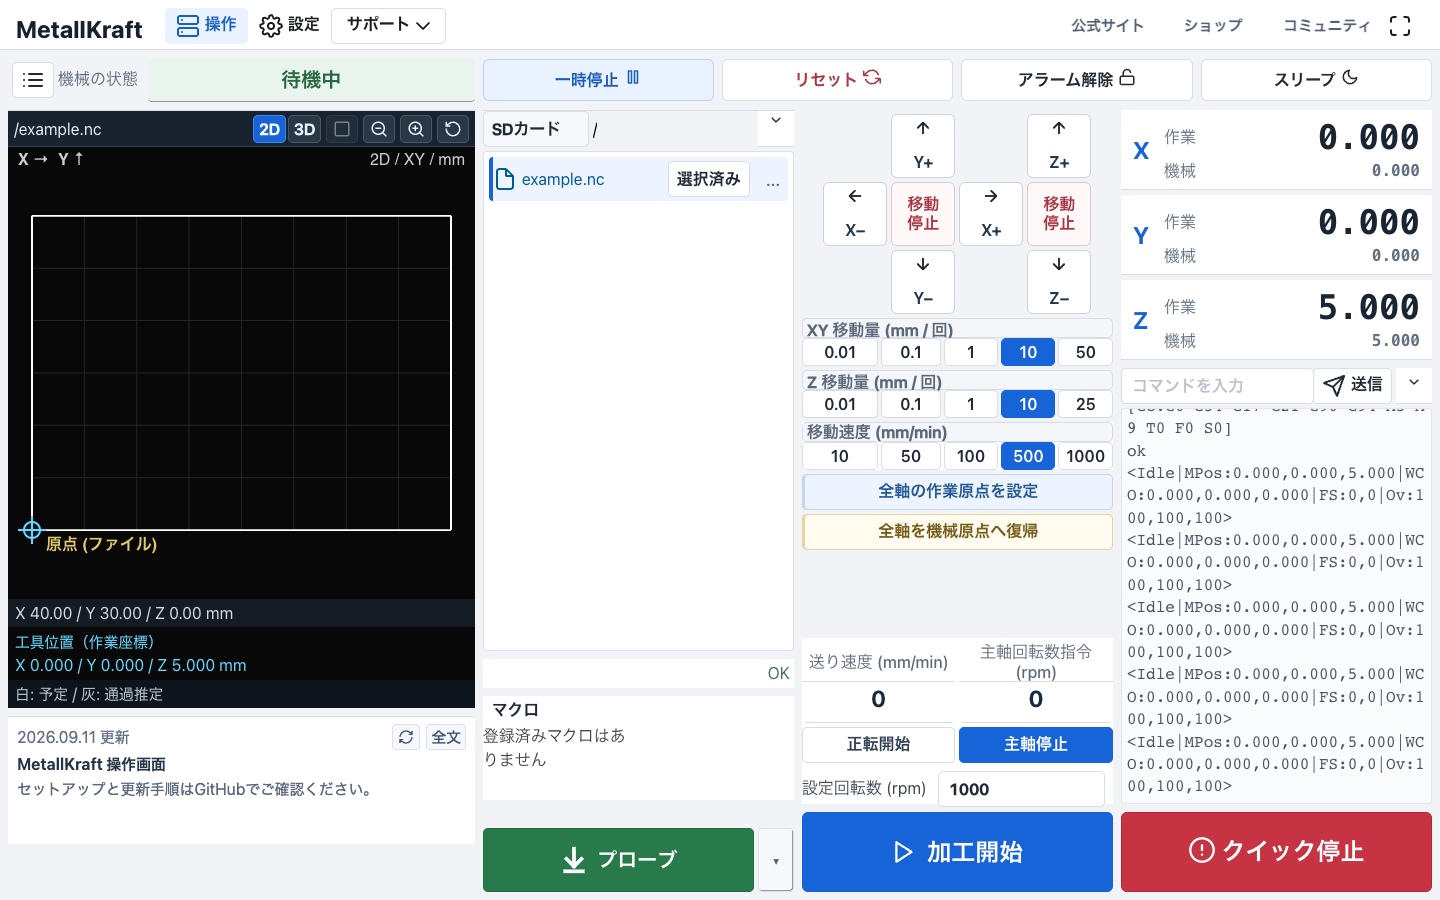
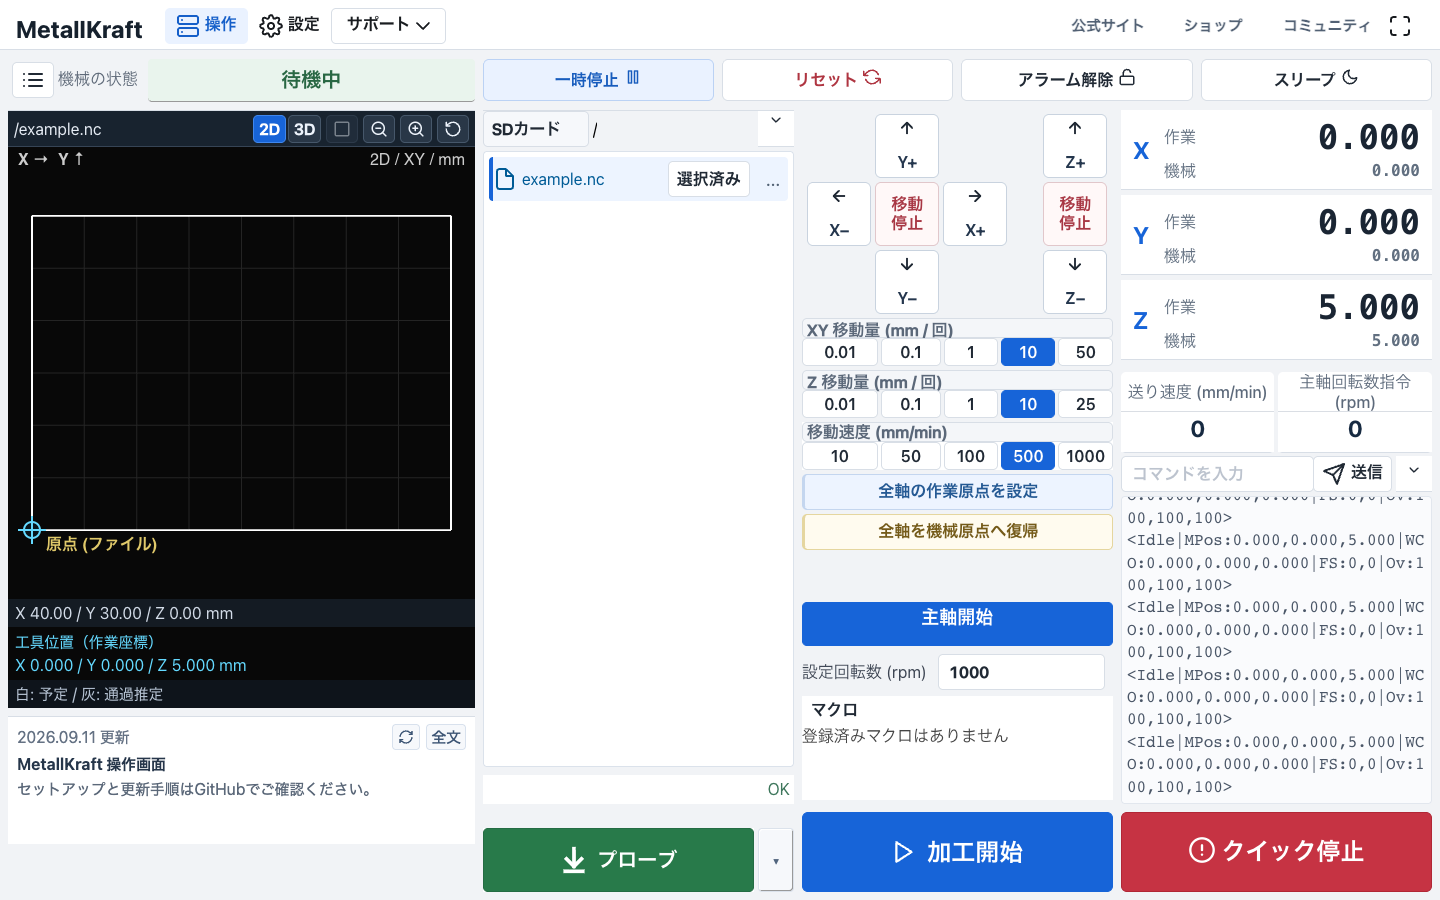
Refine spindle controls, jog spacing and macro layout

diff --git a/standard/operator-layout.css b/standard/operator-layout.css
@@ -1,0 +1,72 @@
+/* Show the appropriate native control; no local toggle state or new command handler. */
+#SpindlePanel fieldset:has([data-tooltip="主軸を正転"]) .states-buttons-container {
+  grid-template-columns: minmax(0, 1fr);
+}
+#dashboard #SpindlePanel button[data-tooltip="主軸を正転"] { display: none; }
+#dashboard #SpindlePanel fieldset:has([data-tooltip="主軸を停止"].btn-primary) button[data-tooltip="主軸を正転"] { display: flex; }
+#dashboard #SpindlePanel fieldset:has([data-tooltip="主軸を停止"].btn-primary) button[data-tooltip="主軸を停止"] { display: none; }
+#dashboard #SpindlePanel button:is([data-tooltip="主軸を正転"], [data-tooltip="主軸を停止"]) {
+  width: 100%; height: 44px; min-height: 44px; justify-content: center;
+  background: var(--mk-blue) !important; border-color: var(--mk-blue) !important; color: #fff !important;
+}
+#dashboard #SpindlePanel button:is([data-tooltip="主軸を正転"], [data-tooltip="主軸を停止"]) label { font-size: 18px; font-weight: 650; }
+@keyframes mk-spindle-running { 0%,100% { filter: brightness(1); } 50% { filter: brightness(.65); } }
+#SpindlePanel fieldset:has(:is([data-tooltip="主軸を正転"], [data-tooltip="主軸を逆転"]).btn-primary) button[data-tooltip="主軸を停止"] {
+  animation: mk-spindle-running 1.4s ease-in-out infinite;
+}
+#dashboard #SpindlePanel fieldset:disabled button:is([data-tooltip="主軸を正転"], [data-tooltip="主軸を停止"]) {
+  animation: none; filter: none; background: #e2e5e9 !important; color: #89919a !important; border-color: #c7cdd4 !important;
+}
+@media (prefers-reduced-motion: reduce) {
+  #SpindlePanel fieldset:has(:is([data-tooltip="主軸を正転"], [data-tooltip="主軸を逆転"]).btn-primary) button[data-tooltip="主軸を停止"] { animation: none; }
+}
+
+/* XY remains a square cross. Only the group gap grows by half a jog button. */
+#dashboard #jogPanel { --jog-cell: min(80px, calc((100cqw - 12px) / 4.5)); }
+#dashboard #jogPanel [id="btn-X"] { transform: translateX(calc(-1.75 * var(--jog-cell) - 6px)); }
+#dashboard #jogPanel [id="btn+X"] { transform: translateX(calc(.25 * var(--jog-cell) + 2px)); }
+#dashboard #jogPanel :is([id="btn+Y"], [id="btn-Y"], #btnStop) { transform: translateX(calc(-.75 * var(--jog-cell) - 2px)); }
+#dashboard #jogPanel :is([id="btn+Z"], [id="btn-Z"], #btnStopZ) { transform: translateX(calc(1.75 * var(--jog-cell) + 6px)); }
+#dashboard #jogPanel #btnStop { grid-area: 2 / 1 / 3 / -1; justify-self: center; align-self: center; width: var(--jog-cell); height: var(--jog-cell); min-height: 0; }
+
+/* Six compact native macro buttons; additional rows stay inside this panel. */
+#dashboard #macrosPanel { height: 108px !important; margin: 0; }
+#dashboard #macrosPanel > .navbar { height: 28px; min-height: 28px; }
+#dashboard #macrosPanel > .panel-body { flex: 1 1 76px; max-height: 76px !important; }
+#macrosPanel .macro-buttons-panel { grid-template-columns: repeat(3, minmax(0, 1fr)); }
+#dashboard #macrosPanel .macro-buttons-panel button { height: 36px; min-height: 36px; }
+#macrosPanel .macro-buttons-panel button label { display: block !important; min-width: 0; max-width: 100% !important; line-height: 16px; white-space: nowrap; overflow: hidden; text-overflow: ellipsis; }
+#macrosPanel .macro-buttons-panel:empty::after { grid-column: 1 / -1; }
+
+@media (min-width: 900px) and (min-height: 768px) {
+  #dashboard #jogPanel { --jog-cell: min(64px, calc((100dvh - 666px) / 3), calc((max(215px, (100cqw - 24px) / 4.5) - 12px) / 4.5)); }
+  #dashboard #filesPanel { padding-bottom: 0; }
+  #dashboard #SpindlePanel .panel-body-dashboard { display: contents; }
+  #dashboard #SpindlePanel .status-ctrls {
+    grid-area: 4 / 4 / 6 / 5; align-self: start; height: 80px;
+    margin: 0; padding: 0;
+  }
+  #dashboard #terminalPanel { margin-top: 88px !important; }
+  #dashboard #SpindlePanel fieldset:has([data-tooltip="主軸を正転"]) {
+    grid-area: 2 / 3 / 6 / 4; align-self: end; height: 86px; margin-bottom: 116px;
+  }
+  #dashboard #SpindlePanel fieldset:has([data-tooltip="主軸を正転"]) .form-group { margin-top: 6px; }
+  #dashboard #macrosPanel { grid-area: 2 / 3 / 6 / 4; align-self: end; }
+}
+@media (min-width: 900px) and (min-height: 768px) and (max-height: 850px) {
+  #dashboard #jogPanel {
+    --jog-cell: min(64px, calc((100dvh - 640px) / 3), calc((max(215px, (100cqw - 24px) / 4.5) - 12px) / 4.5));
+    --jog-rows: repeat(3, var(--jog-cell)) 48px 48px 48px 32px 32px;
+  }
+  #app #dashboard #jogPanel .jog-buttons-container :is([id^="btn+"], [id^="btn-"])::after { width: 14px; height: 14px; top: 3px; }
+  #dashboard #jogPanel .jog-buttons-container :is([id^="btn+"], [id^="btn-"])::before { padding-bottom: 3px; line-height: 18px; }
+  #dashboard #macrosPanel { height: 92px !important; }
+  #dashboard #macrosPanel > .navbar { height: 24px; min-height: 24px; }
+  #dashboard #macrosPanel > .panel-body { flex-basis: 68px; max-height: 68px !important; }
+  #dashboard #macrosPanel .macro-buttons-panel button { height: 32px; min-height: 32px; }
+  #dashboard #SpindlePanel fieldset:has([data-tooltip="主軸を正転"]) { margin-bottom: 100px; }
+}
+@media (max-width: 899px), (max-height: 767px) {
+  #dashboard #SpindlePanel { order: -1; }
+  #dashboard #macrosPanel { order: -1; margin-bottom: 8px; }
+}

diff --git a/README.md b/README.md
@@ -31,9 +31,10 @@ MetallKraftの操作画面と基板設定をまとめた配布パッケージで
 ## 配布内容
 
 - **画面**: 白・灰・青を基調にしたMetallKraft UI、日本語表示、サイト・ショップ・コミュニティへのリンク。
+- **主軸操作**: 青い「主軸開始」が、基板の指令状態に応じて点滅する「主軸停止」へ切り替わります。実回転の検出ではありません。
 - **初期値**: XY/Z移動量10 mm、ジョグ速度500 mm/min。初回の実移動確認は0.01 mmなど小さな値へ変更してください。
 - **経路表示**: 白が予定経路、灰が位置報告に基づく通過推定。機械の誤差や実切削、衝突の有無は判定できません。
-- **マクロ**: 公開版は空です。動作確認用の仮マクロは含めません。
+- **マクロ**: 主軸操作の下に最大6個を表示し、それ以上は枠内でスクロールします。公開版は空で、動作確認用の仮マクロは含めません。
 - **設定の分離**: Wi-Fi名・パスワード、個別機の接続先IP、加工データ、作業履歴は含みません。
 
 基準環境はFluidNC v4.0.3 / WebUI-3 v3.0.10です。画面とブラウザ側処理を変更していますが、FluidNCファームウェアは変更せず、コマンド送信は標準WebUIの仕組みを使用します。CSSだけの変更ではありません。[変更範囲と制限](docs/DEVELOPMENT.md)も確認してください。

diff --git a/CHANGELOG.md b/CHANGELOG.md
@@ -1,0 +1,14 @@
+# 変更履歴
+
+## v0.1.1 / 2026-09-11
+
+- 主軸開始と停止を同じ位置に集約。基板の主軸指令がM3/M4なら停止ボタンが点滅し、M5なら開始ボタンを表示。
+- 回転開始・停止のコマンドと状態判定は既存WebUIを使用。クリックだけで回転中表示へ切り替えない。動きを減らすOS設定では点滅しない。
+- XYの十字配置は正方形のまま、XY/Z間にボタン半個分の余白を追加。
+- マクロを主軸操作の下、加工開始の上へ移動。最大6個、7個目から枠内スクロール。
+- 送り・主軸回転数指令の表示を座標の下へ移動。
+- CSSと日本語ラベルのみ変更。画面本体のJavaScript、YAML、公開用初期設定はv0.1.0と同一。
+
+## v0.1.0 / 2026-09-11
+
+- MetallKraft操作画面、未校正のMKS DLC32 MAX初期YAML、日本語導入・復元手順を初公開。

diff --git a/docs/UPDATE.md b/docs/UPDATE.md
@@ -2,6 +2,10 @@
 
 [トップへ](../README.md)
 
+## v0.1.0からv0.1.1へ
+
+変更ファイルは`theme-metallkraft.gz`と`lang-ja.json.gz`だけです。この2ファイルをFlash直下へ上書きして再読み込みします。YAML・`preferences.json`・登録マクロ・画面本体のJavaScriptは変更しません。[変更履歴](../CHANGELOG.md)
+
 ## 画面だけ更新する
 
 1. 機械を停止し、再接続・再読み込みで動く危険がない状態にする。
